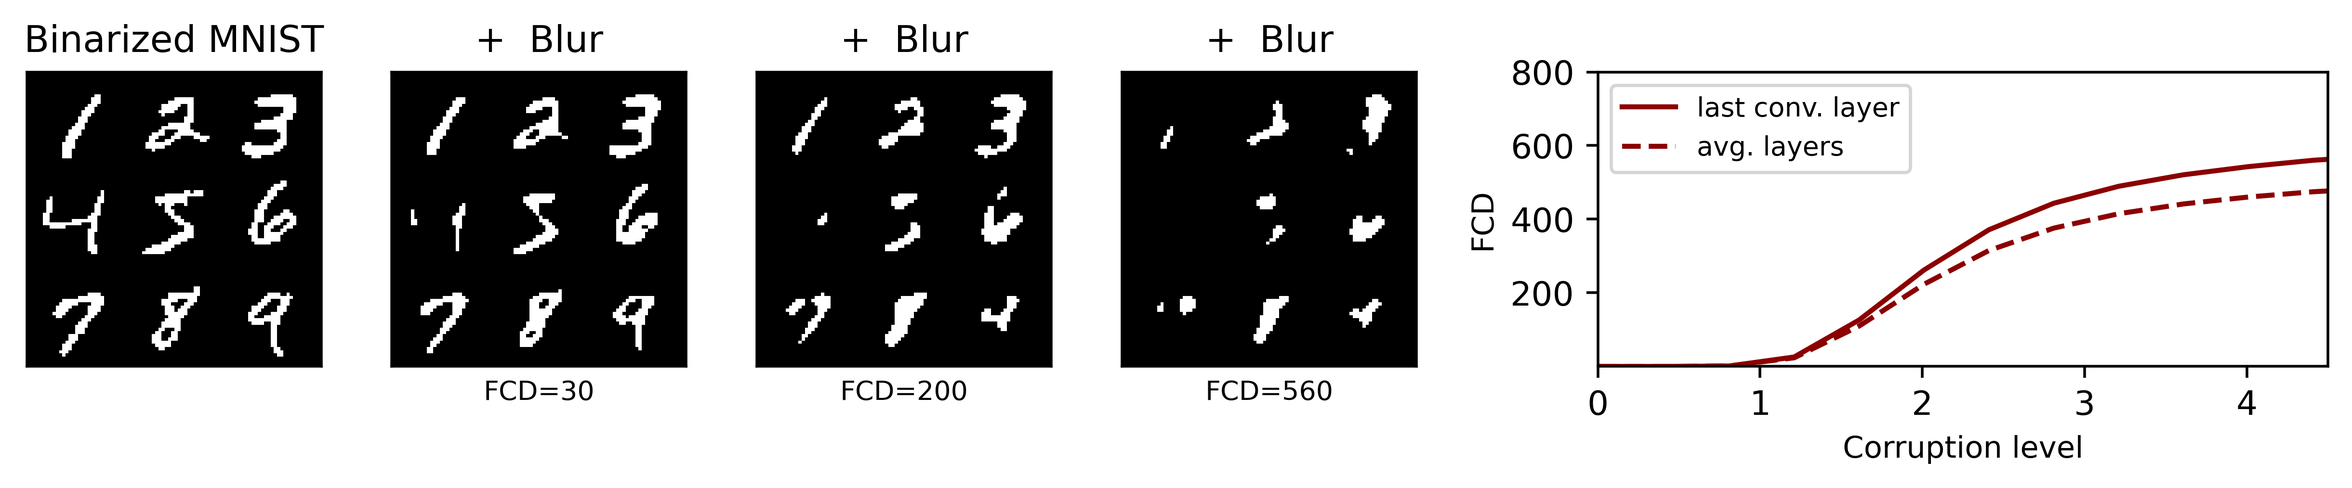
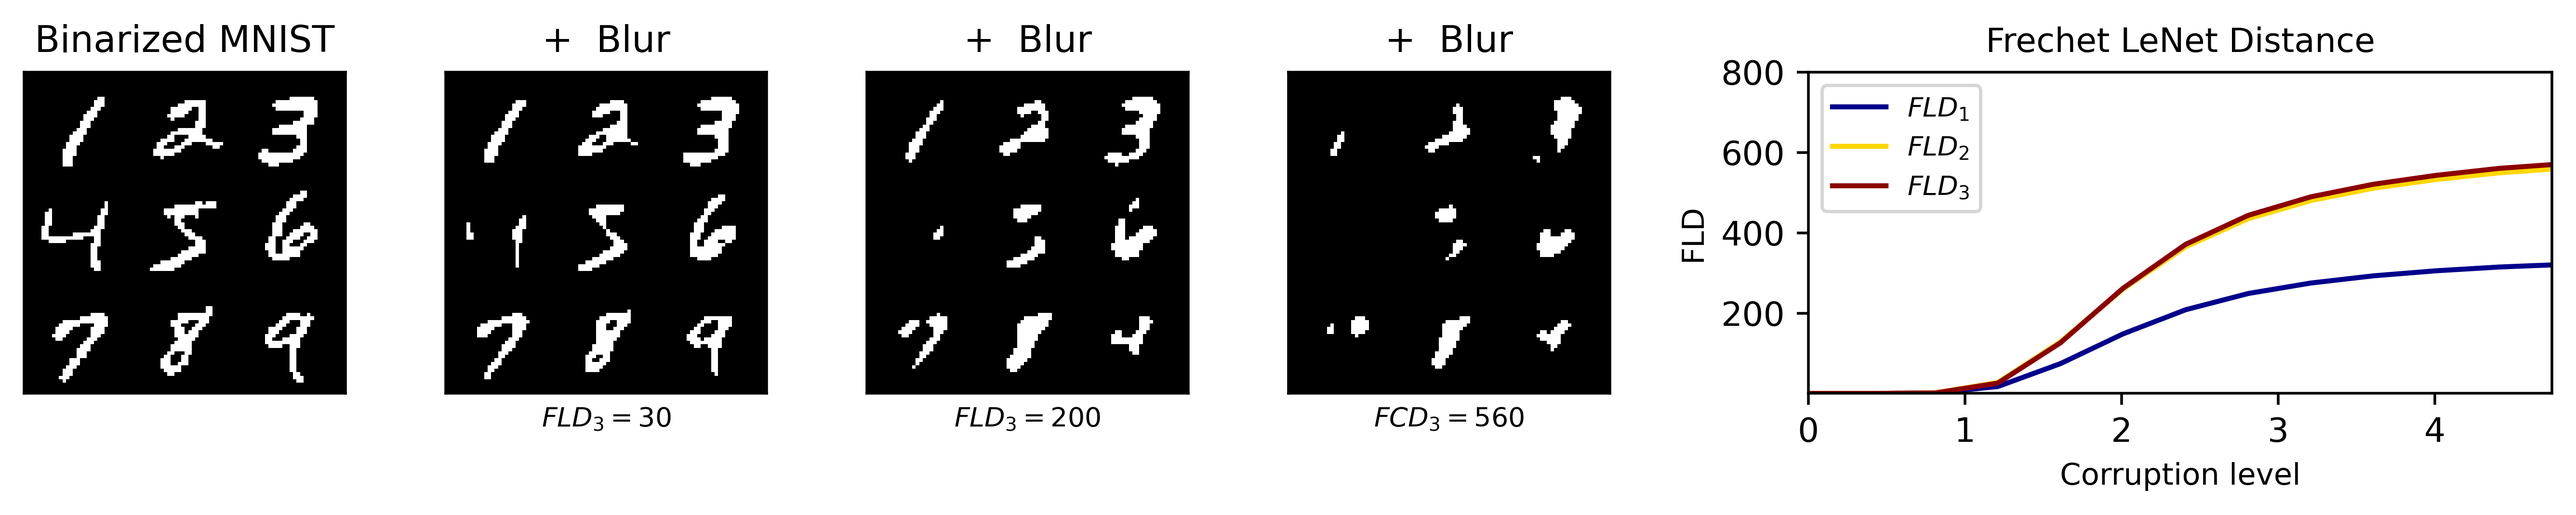
update

diff --git a/utils.py b/utils.py
@@ -1,9 +1,17 @@
 import torch
 import torch.nn as nn 
+import tqdm
+import numpy as np
+import torch.optim as optim
+
 import torch.nn.functional as F
 import matplotlib.pyplot as plt
-import torch.optim as optim
-import tqdm
+import matplotlib.pyplot as plt
+import matplotlib.gridspec as gridspec
+from torchvision.utils import make_grid
+
+from utils import plot_images
+from image_datasets import load_nist_data
 
 def train_classifier(model, 
                      train_dataloader, 
@@ -101,4 +109,80 @@ def plot_images(images, title, figsize=(4, 4), cmap=None):
         else: ax.imshow(img)
         ax.axis('off')
     plt.suptitle(title)
+    plt.show()
+
+
+def mnist_grid(sample, title=None, xlabel=None, num_img=5, nrow=8, figsize=(10,10), save=False):
+    _, ax= plt.subplots(1,1, figsize=figsize)
+    sample = sample[:num_img]
+    img = make_grid(sample, nrow=nrow)
+    npimg = np.transpose(img.detach().cpu().numpy(),(1,2,0))
+    plt.imshow(npimg)
+    plt.title(title)
+    ax.set_xlabel(xlabel, fontsize=8)
+    ax.set_xticks([])
+    ax.set_yticks([])
+    if save:
+        plt.savefig( 'images/' + title + '.png', bbox_inches='tight', dpi=2000)
+    plt.show()
+
+
+def get_10_digits(images, labels):
+  digits={}
+  for i in range(10):
+      digits[i] = images[labels == i]
+  digits = torch.cat([
+                    digits[1][0],
+                    digits[2][0],
+                    digits[3][0],
+                    digits[4][0],
+                    digits[5][0],
+                    digits[6][0],
+                    digits[7][0],
+                    digits[8][0],
+                    digits[9][0]
+                    ], dim=0)  
+  digits = digits.unsqueeze(1)
+  return digits
+
+def plot_combined_with_mnist_grid(samples, fcd, distortion, dist_levels, xlim=(0,100), titles=None, loc='upper left', log=False, figsize=(10, 6)):
+    N = len(samples)
+    if titles is None: titles = [None] * N
+    _ = plt.figure(figsize=figsize)
+    gs = gridspec.GridSpec(1, N+2, width_ratios=[0.85]*N+[0.3, 1.5], wspace=0.)     
+    axs = [plt.subplot(gs[i]) for i in range(N)] + [plt.subplot(gs[N+1])]   
+
+    #...plot each mnist sample:
+
+    for i, sample in enumerate(samples):
+        img = make_grid(sample[:9], nrow=3)
+        npimg = np.transpose(img.detach().cpu().numpy(), (1, 2, 0))
+        axs[i].imshow(npimg)
+        axs[i].set_xlabel(dist_levels[i], fontsize=8) if i > 0 else axs[i].set_xlabel('', fontsize=8)
+        axs[i].set_xticks([])
+        axs[i].set_yticks([])
+        if titles:
+            axs[i].set_title('+  '+distortion, fontsize=11) if i > 0 else axs[i].set_title('Binarized MNIST', fontsize=11)
+
+    #...plot FCD:
+            
+    axs[N].plot(list(fcd[0].keys()), list(fcd[0].values()), color='darkblue', label=r'$FLD_1$')
+    axs[N].plot(list(fcd[1].keys()), list(fcd[1].values()), color='gold', label=r'$FLD_2$')
+    axs[N].plot(list(fcd[2].keys()), list(fcd[2].values()), color='darkred', label=r'$FLD_3$')
+    axs[N].set_title('Frechet LeNet Distance', fontsize=10)
+    axs[N].set_ylabel(r'FLD', fontsize=9)
+    axs[N].set_xlabel('Corruption level', fontsize=9)
+    axs[N].set_ylim(1,800)
+    axs[N].set_xlim(xlim)
+    axs[N].legend(loc=loc, fontsize=8)
+
+    if log:
+        axs[N].set_yscale('log')
+        axs[N].set_ylim(1, 5000)
+        axs[N].set_yticks([1, 10, 100, 1000, 10000])
+        axs[N].get_yaxis().set_major_formatter(plt.ScalarFormatter())
+        axs[N].set_yticklabels(['1', '10', '100', '1000', r'$10^4$'])
+
+    plt.tight_layout()
+    plt.savefig(distortion + '_combined_plot.png', bbox_inches='tight', dpi=500)
     plt.show()

diff --git a/fid_metric.py b/fid_metric.py
@@ -59,3 +59,14 @@ def fid_distorted_NIST(model, name='MNIST', distortion='noise', values=np.arange
         dataset = load_nist_data(name, distortion=distortion, level=val, train=False)
         fid[val] = compute_fid(model, dataset, mu_ref=mu, sigma_ref=sigma, batch_size=batch_size, activation_layer=activation_layer, device=device).cpu()
     return fid
+
+def fid_distorted_NIST(model, name='MNIST', distortion='noise', values=np.arange(0.0, 1, 0.02), batch_size=64, activation_layer='fc1', device='cpu'):
+    
+    dataset = load_nist_data(name=name, train=False)
+    mu, sigma = compute_activation_statistics(model, dataset, batch_size=batch_size, activation_layer=activation_layer, device=device)
+    fid = {}
+    
+    for val in values:
+        dataset = load_nist_data(name, distortion=distortion, level=val, train=False) if distortion != 'homogenize' else load_nist_data(name=name, train=False)
+        fid[val] = compute_fid(model, dataset, mu_ref=mu, sigma_ref=sigma, batch_size=batch_size, activation_layer=activation_layer, device=device).cpu()
+    return fid
